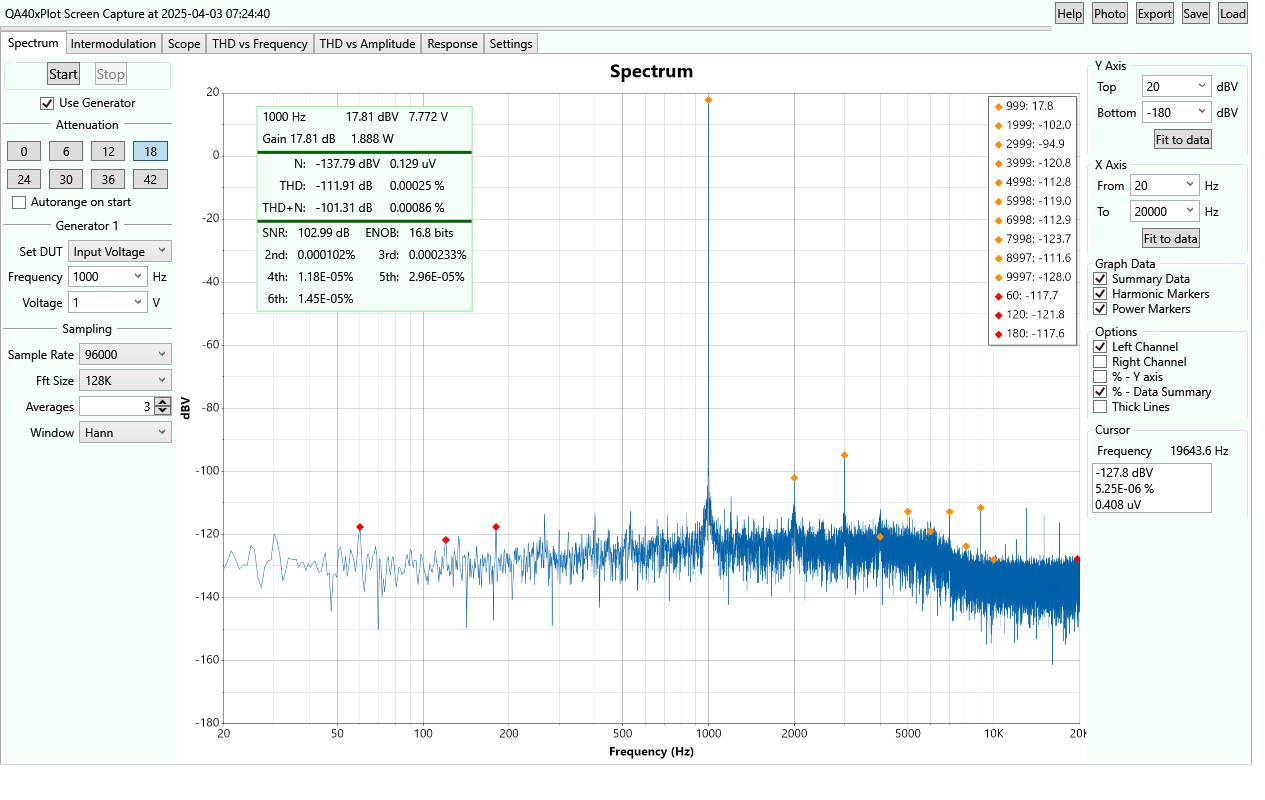
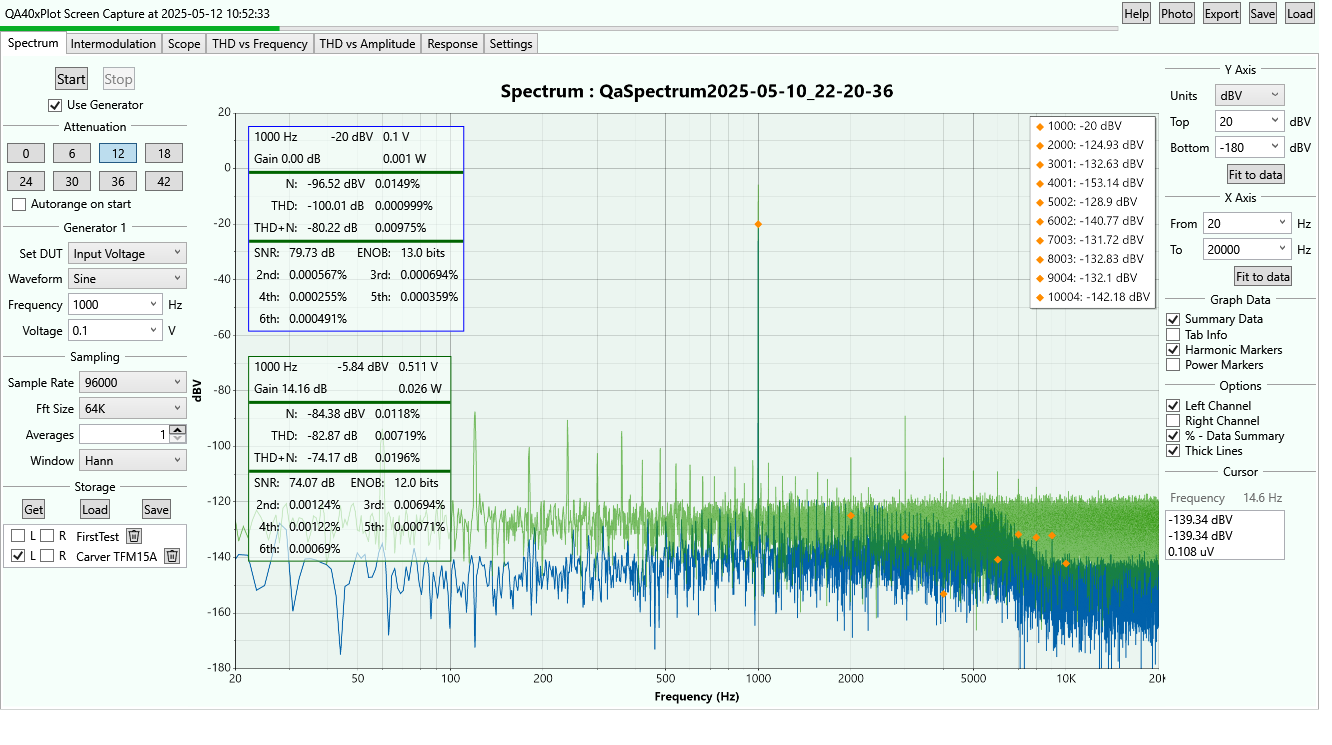
fixup save in sweeps repair imd snr math for high freqs

Changed region(s): [[0.0, 0.0, 1.0, 0.957], [0.8324, 0.0, 0.9866, 0.0309], [0.1542, 0.8027, 0.185, 0.8336]]

diff --git a/QA40xPlot/Views/Subs/StorageUi.xaml b/QA40xPlot/Views/Subs/StorageUi.xaml
@@ -19,7 +19,7 @@
             </Grid.RowDefinitions>
             <Button Content="_Get" IsEnabled="{Binding IsNotRunning}"  Command="{Binding DoGetTab}" Grid.Column="0" Grid.Row="0"  HorizontalAlignment="Center"></Button>
             <Button Content="_Load" IsEnabled="{Binding IsNotRunning}" Command="{Binding DoLoadTab}" Grid.Column="1" Grid.Row="0" HorizontalAlignment="Center"></Button>
-            <Button Content="Sav_e" IsEnabled="{Binding HasExport}"    Command="{Binding DoSaveTab}" Grid.Column="2" Grid.Row="0"  HorizontalAlignment="Center"></Button>
+            <Button Content="Sav_e" IsEnabled="{Binding HasSave}"    Command="{Binding DoSaveTab}" Grid.Column="2" Grid.Row="0"  HorizontalAlignment="Center"></Button>
         </Grid>
     </StackPanel>
 </UserControl>

diff --git a/QA40xPlot/BareMetal/QaCompute.cs b/QA40xPlot/BareMetal/QaCompute.cs
@@ -152,7 +152,7 @@ namespace QA40xPlot.BareMetal
 			double fundamentalRms = ComputeRmsF(signalFreqLin, df, notchLowerBound, notchUpperBound);
 			// Calculate RMS of the signal outside the notch
 			double rmsBelowNotch = ComputeRmsF(signalFreqLin, df, 20, notchLowerBound);
-			double rmsAboveNotch = ComputeRmsF(signalFreqLin, df, notchUpperBound, 20000);
+			double rmsAboveNotch = ComputeRmsF(signalFreqLin, df, notchUpperBound, Math.Max(20000, notchUpperBound*1.5));
 
 			if (fundamental2 > 0.0)
 			{

diff --git a/QA40xPlot/ViewModels/BaseViewModel.cs b/QA40xPlot/ViewModels/BaseViewModel.cs
@@ -253,6 +253,13 @@ namespace QA40xPlot.ViewModels
 			get { return _HasExport; }
 			set { SetProperty(ref _HasExport, value); }
 		}
+		private bool _HasSave = false;
+		[JsonIgnore]
+		public bool HasSave
+		{
+			get { return _HasSave; }
+			set { SetProperty(ref _HasSave, value); }
+		}
 		#endregion
 
 		/// <summary>

diff --git a/QA40xPlot/Actions/ActBase.cs b/QA40xPlot/Actions/ActBase.cs
@@ -70,7 +70,7 @@ namespace QA40xPlot.Actions
 																	// detach from usb port
 			//QaComm.Close(false);
 			bvm.IsRunning = false;
-
+			bvm.HasSave = true; // set the save flag
 		}
 
 		protected async Task showMessage(String msg, int delay = 0)
